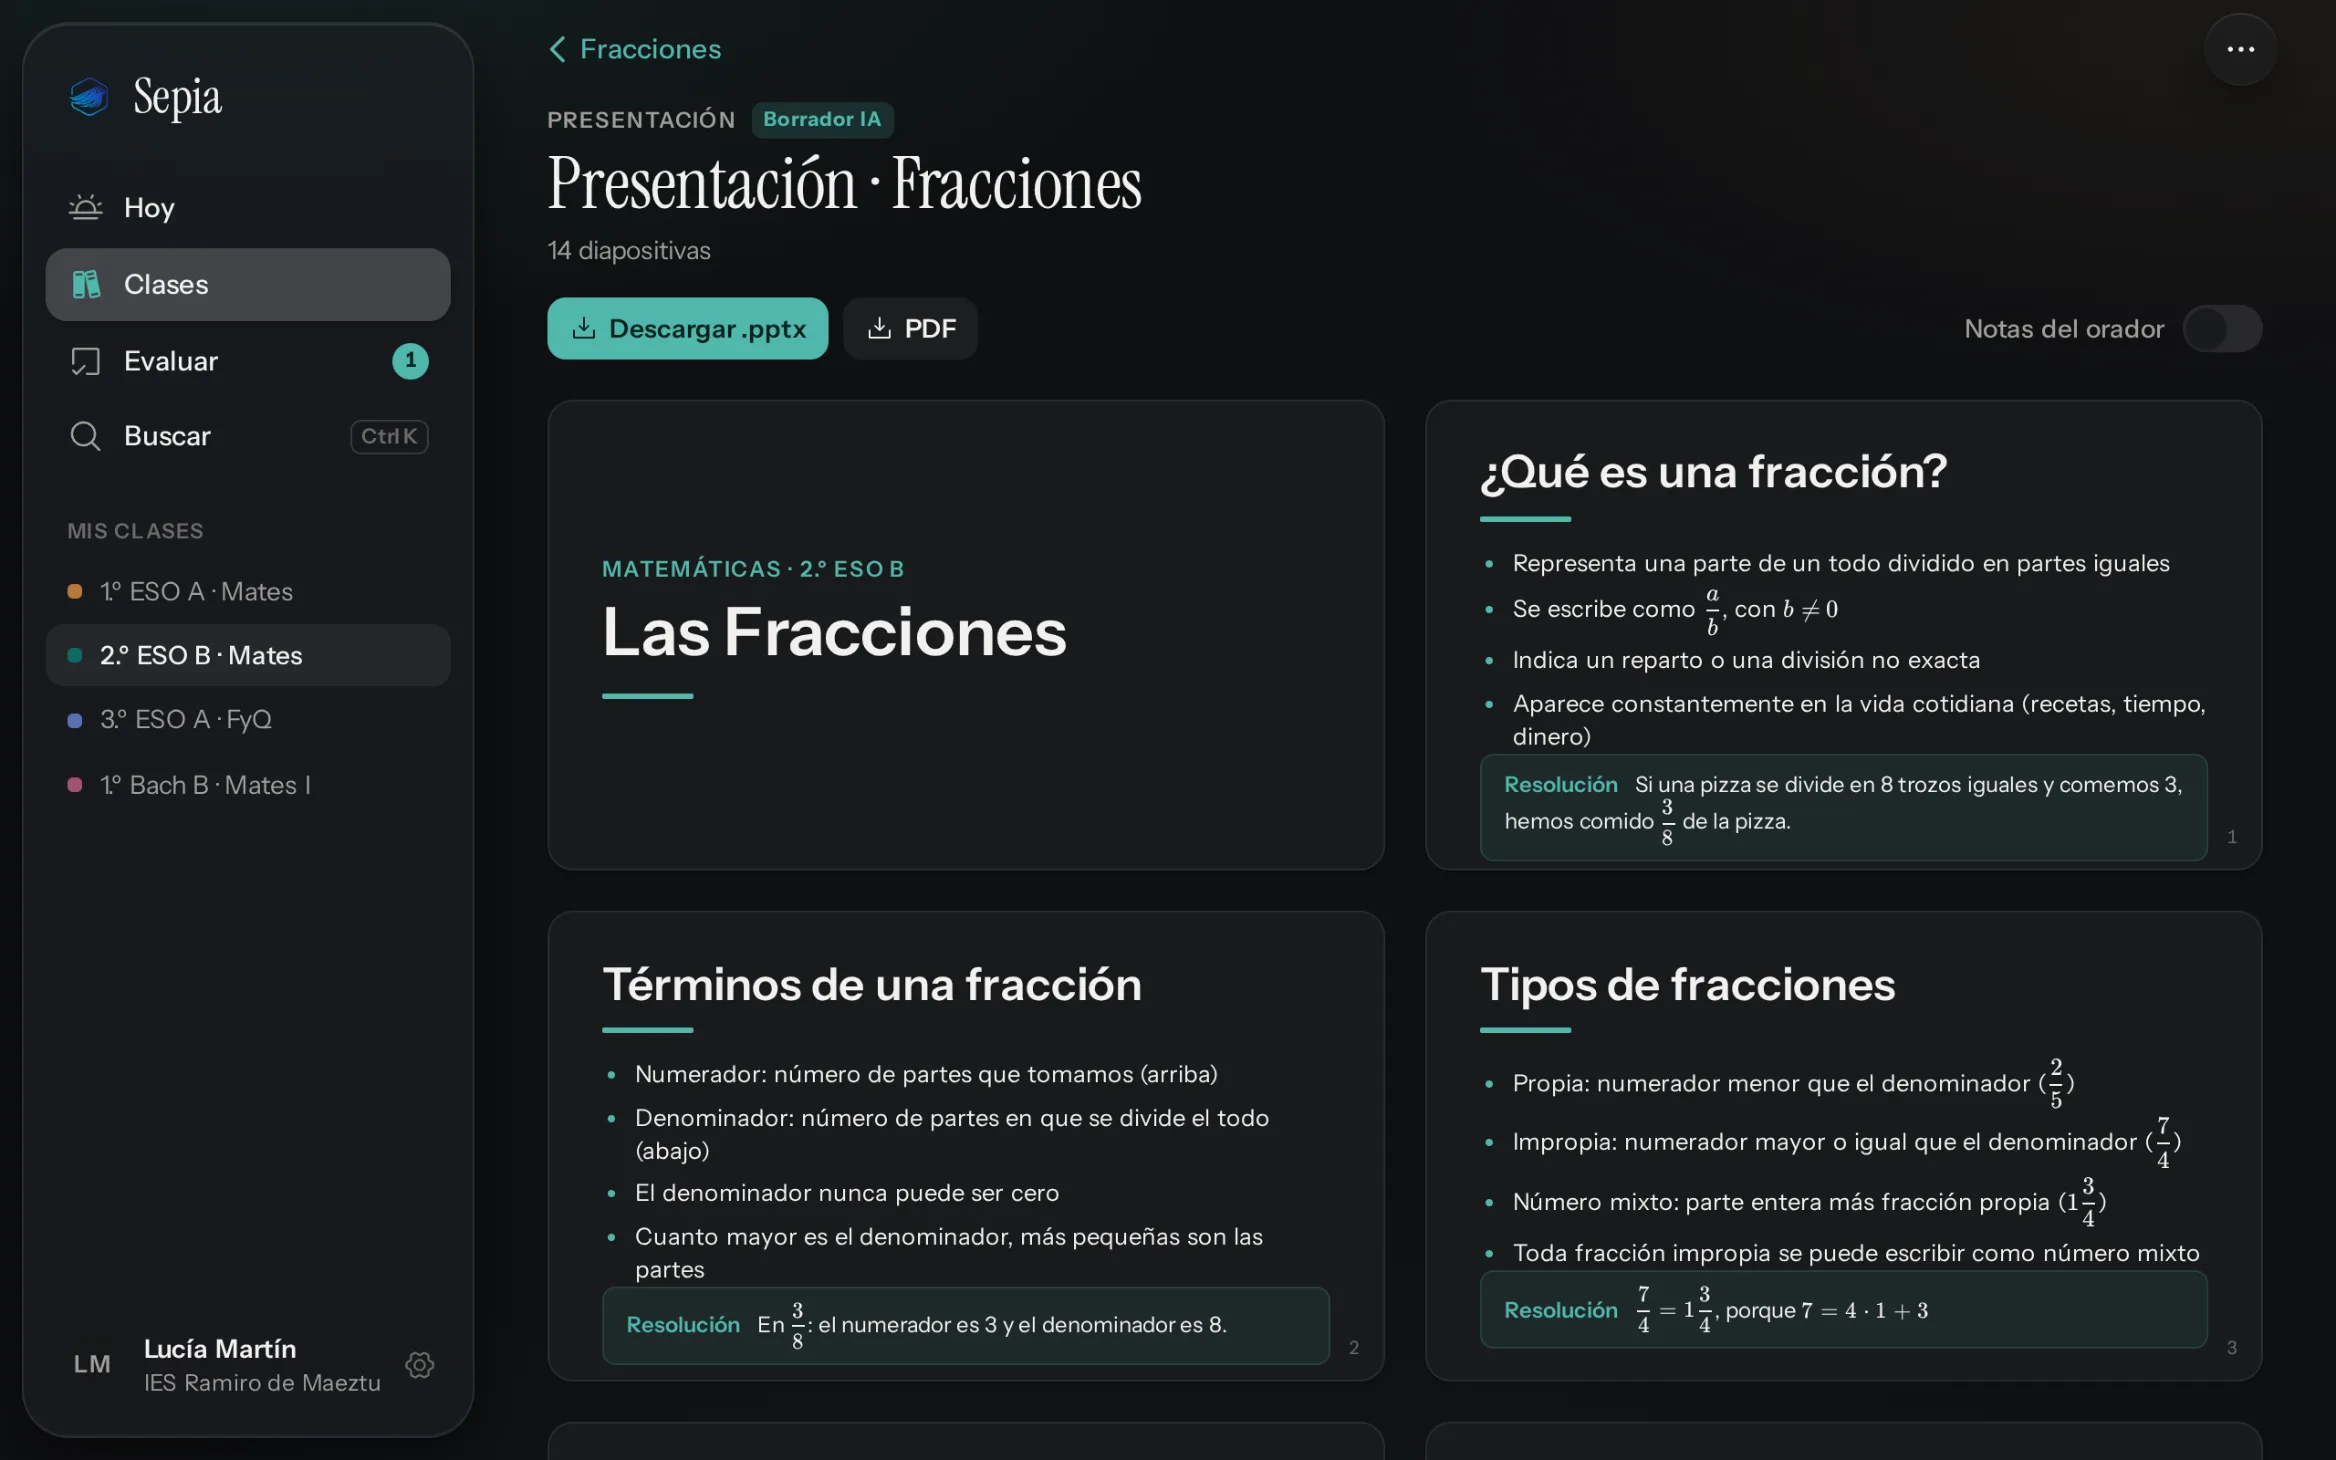
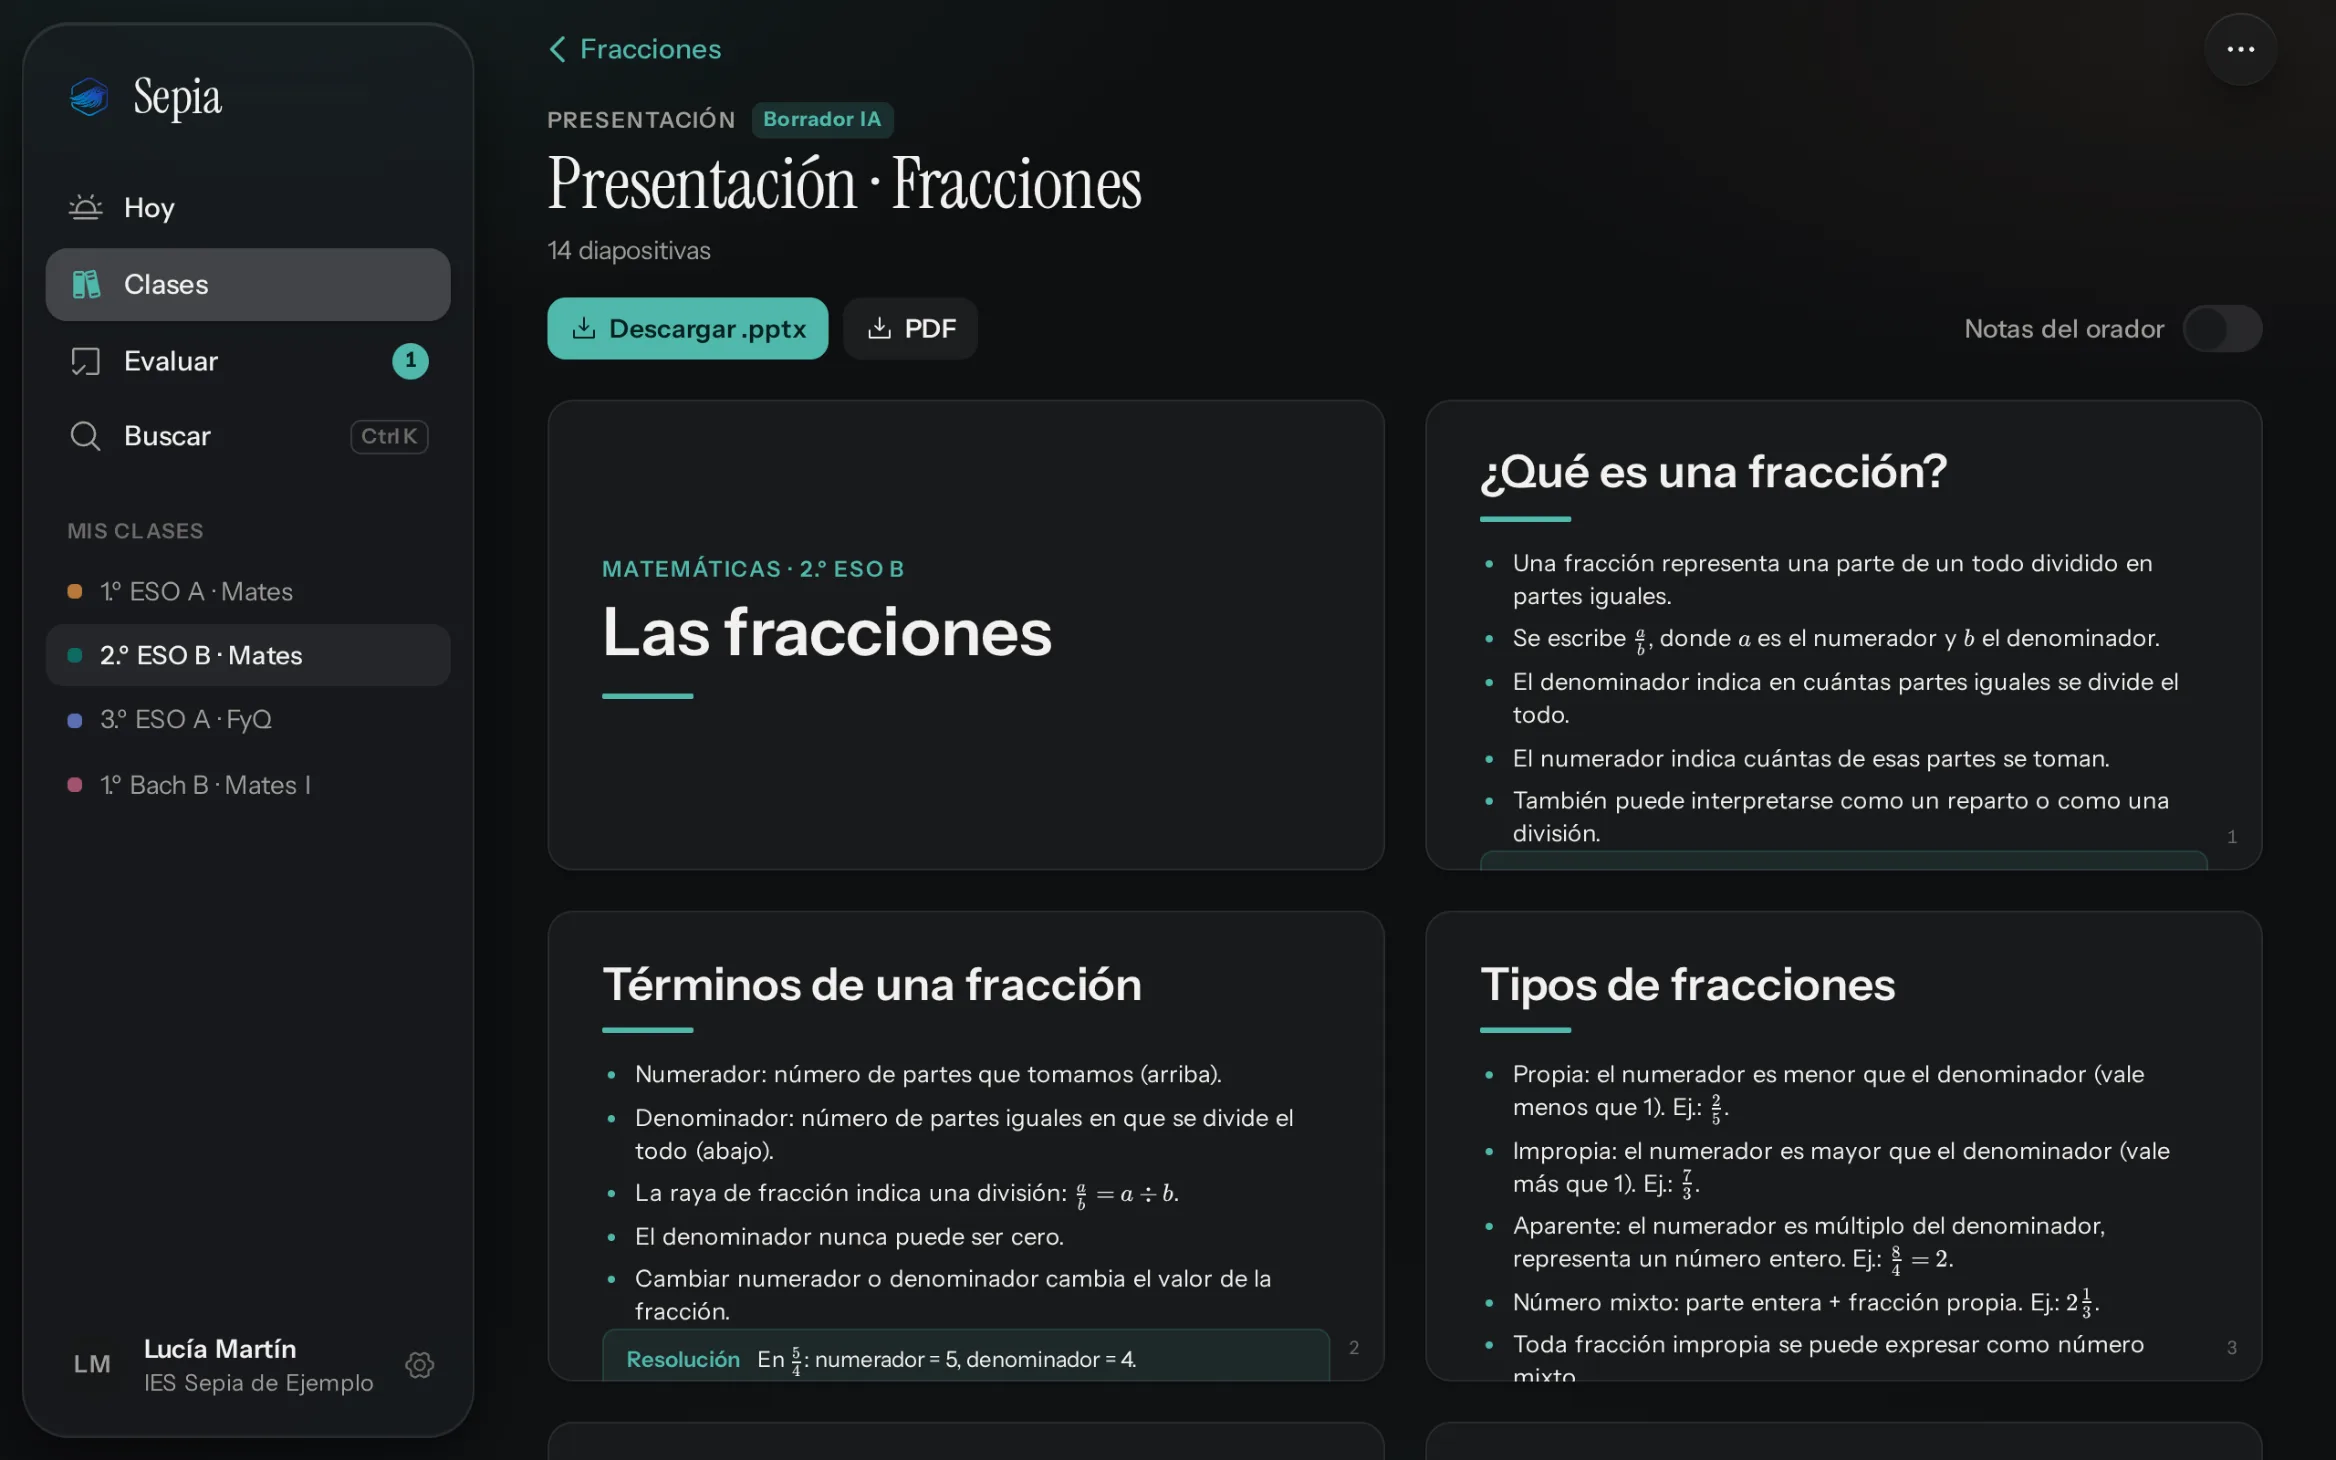
Import warns where a long programación was cut, new-student flow spec, landing shots with the fictional school
- Importar temario shows the backend's warning when the pasted text is longer than what the AI reads.
- e2e/new-student.spec.ts: a student added today leaves Evaluar and his pending exams unchanged (no AI).
- Desktop landing shots retaken from the reseeded demo («IES Sepia de Ejemplo»).

Claude-Session: https://claude.ai/code/session_01NLqyRHvEtVozJDToGmu5eg

diff --git a/landing/index.html b/landing/index.html
@@ -88,8 +88,8 @@
         <picture>
           <source media="(max-width: 1023px) and (prefers-color-scheme: dark)" srcset="/landing/img/evaluacion-phone-dark.webp?v=a7352eba" width="780" height="1688">
           <source media="(max-width: 1023px)" srcset="/landing/img/evaluacion-phone.webp?v=b038277e" width="780" height="1688">
-          <source media="(prefers-color-scheme: dark)" srcset="/landing/img/cuaderno-desktop-dark.webp?v=c1fa394b" width="2336" height="1460">
-          <img src="/landing/img/cuaderno-desktop.webp?v=d5d23657" width="2336" height="1460" loading="lazy" decoding="async"
+          <source media="(prefers-color-scheme: dark)" srcset="/landing/img/cuaderno-desktop-dark.webp?v=e6c8f79d" width="2336" height="1460">
+          <img src="/landing/img/cuaderno-desktop.webp?v=393c0edc" width="2336" height="1460" loading="lazy" decoding="async"
             alt="En el móvil, la sesión de evaluación: la media de la clase, el aviso de las notas de la IA aún sin revisar, el botón para redactar los comentarios de boletín y la media y la nota propuesta de cada alumno. En el ordenador, el cuaderno: alumnos por apellidos, una columna por actividad y la media fija a la derecha.">
         </picture>
       </figure>
@@ -111,10 +111,10 @@
       </div>
       <figure class="shot shot--adaptive">
         <picture>
-          <source media="(max-width: 1023px) and (prefers-color-scheme: dark)" srcset="/landing/img/revisar-phone-dark.webp?v=2887d1bb" width="780" height="1688">
-          <source media="(max-width: 1023px)" srcset="/landing/img/revisar-phone.webp?v=48355326" width="780" height="1688">
-          <source media="(prefers-color-scheme: dark)" srcset="/landing/img/revisar-desktop-dark.webp?v=2f801a02" width="2336" height="1460">
-          <img src="/landing/img/revisar-desktop.webp?v=8e67a369" width="2336" height="1460" loading="lazy" decoding="async"
+          <source media="(max-width: 1023px) and (prefers-color-scheme: dark)" srcset="/landing/img/revisar-phone-dark.webp?v=9d5bfbdc" width="780" height="1688">
+          <source media="(max-width: 1023px)" srcset="/landing/img/revisar-phone.webp?v=ef4b957b" width="780" height="1688">
+          <source media="(prefers-color-scheme: dark)" srcset="/landing/img/revisar-desktop-dark.webp?v=d28f7de3" width="2336" height="1460">
+          <img src="/landing/img/revisar-desktop.webp?v=c3bb4c50" width="2336" height="1460" loading="lazy" decoding="async"
             alt="Revisión de un examen: cada pregunta con los puntos que propone la IA para aceptarlos o cambiarlos y, en el ordenador, al lado, una hoja de ejemplo generada para la demo.">
         </picture>
         <figcaption>Hoja de ejemplo generada para la demo.</figcaption>
@@ -134,10 +134,10 @@
       </div>
       <figure class="shot shot--adaptive">
         <picture>
-          <source media="(max-width: 1023px) and (prefers-color-scheme: dark)" srcset="/landing/img/material-phone-dark.webp?v=8c97deb3" width="780" height="1688">
-          <source media="(max-width: 1023px)" srcset="/landing/img/material-phone.webp?v=715c8131" width="780" height="1688">
-          <source media="(prefers-color-scheme: dark)" srcset="/landing/img/material-desktop-dark.webp?v=8864bf78" width="2336" height="1460">
-          <img src="/landing/img/material-desktop.webp?v=8e30a20f" width="2336" height="1460" loading="lazy" decoding="async"
+          <source media="(max-width: 1023px) and (prefers-color-scheme: dark)" srcset="/landing/img/material-phone-dark.webp?v=1437ee31" width="780" height="1688">
+          <source media="(max-width: 1023px)" srcset="/landing/img/material-phone.webp?v=e01daff0" width="780" height="1688">
+          <source media="(prefers-color-scheme: dark)" srcset="/landing/img/material-desktop-dark.webp?v=848e0f21" width="2336" height="1460">
+          <img src="/landing/img/material-desktop.webp?v=adbc334f" width="2336" height="1460" loading="lazy" decoding="async"
             alt="Presentación de una unidad creada con IA y marcada como borrador: diapositivas con definiciones y ejemplos resueltos, y los botones para descargarla en .pptx o en PDF.">
         </picture>
       </figure>

diff --git a/src/features/units/ImportUnitsSheet.tsx b/src/features/units/ImportUnitsSheet.tsx
@@ -2,7 +2,7 @@ import { CaretDown, X } from '@phosphor-icons/react';
 import { useState } from 'react';
 import { useBulkUnits, useImportUnits } from '../../api/units';
 import { plural } from '../../lib/format';
-import { Button, IconButton, Sheet, TextArea, useFeedback } from '../../ui';
+import { Button, Callout, IconButton, Sheet, TextArea, useFeedback } from '../../ui';
 import './units.css';
 
 interface Proposal { key: number; title: string; term: number | null }
@@ -24,11 +24,13 @@ function ImportUnits({ onClose, courseId }: { onClose: () => void; courseId: str
   const bulk = useBulkUnits(courseId);
   const [text, setText] = useState('');
   const [items, setItems] = useState<Proposal[] | null>(null);
+  const [warning, setWarning] = useState<string | null>(null);
 
   const propose = async () => {
     try {
-      const { proposals } = await parse.mutateAsync(text);
+      const { proposals, warning } = await parse.mutateAsync(text);
       setItems(proposals.map((p, i) => ({ key: i, ...p })));
+      setWarning(warning);
     } catch (e) {
       toast((e as Error).message, { tone: 'error' });
     }
@@ -70,27 +72,30 @@ function ImportUnits({ onClose, courseId }: { onClose: () => void; courseId: str
           {valid.length ? `Crear ${plural(valid.length, 'unidad', 'unidades')}` : 'No queda ninguna unidad'}
         </Button>
       </>}>
-      <div className="list proposals">
-        {items.map((p, i) => (
-          <div key={p.key} className="proposal">
-            <span className="proposal__n num">{i + 1}</span>
-            <input className="input proposal__title" value={p.title} aria-label={`Título de la unidad ${i + 1}`}
-              onChange={(e) => update(p.key, { title: e.target.value })} />
-            <div className="select-wrap proposal__term">
-              <select className="select" aria-label="Evaluación" value={p.term ?? ''}
-                onChange={(e) => update(p.key, { term: e.target.value ? Number(e.target.value) : null })}>
-                <option value="1">1.ª</option>
-                <option value="2">2.ª</option>
-                <option value="3">3.ª</option>
-                <option value="">Sin</option>
-              </select>
-              <CaretDown size={14} />
+      <div className="form">
+        {warning && <Callout tone="warn">{warning}</Callout>}
+        <div className="list proposals">
+          {items.map((p, i) => (
+            <div key={p.key} className="proposal">
+              <span className="proposal__n num">{i + 1}</span>
+              <input className="input proposal__title" value={p.title} aria-label={`Título de la unidad ${i + 1}`}
+                onChange={(e) => update(p.key, { title: e.target.value })} />
+              <div className="select-wrap proposal__term">
+                <select className="select" aria-label="Evaluación" value={p.term ?? ''}
+                  onChange={(e) => update(p.key, { term: e.target.value ? Number(e.target.value) : null })}>
+                  <option value="1">1.ª</option>
+                  <option value="2">2.ª</option>
+                  <option value="3">3.ª</option>
+                  <option value="">Sin</option>
+                </select>
+                <CaretDown size={14} />
+              </div>
+              <IconButton label="Quitar" size="sm" onClick={() => setItems((xs) => xs && xs.filter((x) => x.key !== p.key))}>
+                <X size={16} />
+              </IconButton>
             </div>
-            <IconButton label="Quitar" size="sm" onClick={() => setItems((xs) => xs && xs.filter((x) => x.key !== p.key))}>
-              <X size={16} />
-            </IconButton>
-          </div>
-        ))}
+          ))}
+        </div>
       </div>
     </Sheet>
   );

diff --git a/e2e/new-student.spec.ts b/e2e/new-student.spec.ts
@@ -1,0 +1,48 @@
+import { expect, test, type APIRequestContext } from '@playwright/test';
+import { shot, trackErrors } from './helpers';
+
+// A student who joins 2.º ESO B today: nothing before today is missing for him (Evaluar stays the same). No AI.
+const API = process.env.API || 'http://127.0.0.1:8000';
+
+async function login(request: APIRequestContext) {
+  const r = await request.post(`${API}/api/auth/login`, { data: { email: 'demo@sepia.es', password: 'sepia1234' } });
+  const { access_token } = await r.json();
+  const headers = { Authorization: `Bearer ${access_token}` };
+  return {
+    get: async (path: string) => (await request.get(`${API}/api${path}`, { headers })).json(),
+    del: (path: string) => request.delete(`${API}/api${path}`, { headers }),
+  };
+}
+
+const toGrade = (inbox: { to_grade: { activity: { id: string }; missing: number }[] }) =>
+  inbox.to_grade.map((x) => [x.activity.id, x.missing]);
+
+test('a student added today leaves Evaluar and his pending exams alone', async ({ page, request }, info) => {
+  const errors = trackErrors(page);
+  const api = await login(request);
+  const courses: { id: string; subject: string; group: { id: string; name: string } }[] = await api.get('/courses');
+  const course = courses.find((c) => c.subject === 'Matemáticas' && c.group.name.includes('2º ESO B'))!;
+  const before = await api.get('/inbox');
+
+  await page.goto(`/clases/${course.id}/alumnos?anadir=1`);
+  await page.getByLabel('Un alumno por línea').fill('Vidal Ruiz, Nuria');
+  await page.getByRole('button', { name: 'Añadir 1 alumno' }).click();
+  await expect(page.getByText('1 alumno añadido')).toBeVisible();
+  const roster: { id: string; first_name: string; last_name: string }[] = await api.get(`/groups/${course.group.id}/students`);
+  const nuria = roster.find((s) => s.first_name === 'Nuria' && s.last_name === 'Vidal Ruiz')!;
+  try {
+    expect(toGrade(await api.get('/inbox'))).toEqual(toGrade(before));
+    await page.goto('/evaluar');
+    await expect(page.getByRole('heading', { name: 'Evaluar' }).first()).toBeVisible();
+    await shot(page, info, 'new-student-evaluar');
+
+    const file = await api.get(`/students/${nuria.id}`);
+    expect(file.courses.flatMap((c: { pending_exams: unknown[] }) => c.pending_exams)).toEqual([]);
+    await page.goto(`/alumnos/${nuria.id}`);
+    await expect(page.getByText('Nuria').first()).toBeVisible();
+    await shot(page, info, 'new-student-file');
+  } finally {
+    await api.del(`/groups/${course.group.id}/students/${nuria.id}`);
+  }
+  expect(errors).toEqual([]);
+});

diff --git a/src/api/units.ts b/src/api/units.ts
@@ -123,7 +123,8 @@ export function useOrderUnits(courseId: string) {
 
 export function useImportUnits(courseId: string) {
   return useMutation({
-    mutationFn: (text: string) => api.post<{ proposals: { title: string; term: number | null }[] }>(`/courses/${courseId}/units/import`, { text }),
+    mutationFn: (text: string) =>
+      api.post<{ proposals: { title: string; term: number | null }[]; warning: string | null }>(`/courses/${courseId}/units/import`, { text }),
   });
 }
 

diff --git a/docs/PRODUCT.md b/docs/PRODUCT.md
@@ -82,8 +82,8 @@ Ajustes        /ajustes                 perfil, curso escolar, festivos, cerrar 
 ### 4.1 Septiembre — poner en marcha (≤ 5 minutos)
 1. Registro → se crea el curso escolar con trimestres y festivos nacionales por defecto (editables en Ajustes).
 2. "Nueva clase": materia + grupo (crear o elegir) + horario (días y horas, tramos de 55 min por defecto) + aula.
-3. "Añadir alumnos": **pegar la lista** (un alumno por línea, acepta "Apellidos, Nombre" y "Nombre Apellidos") o importar CSV/Excel (detecta `;`, Latin-1, BOM). Si el grupo ya tiene alumnos (otra materia), se reutilizan.
-4. Programación: añadir unidades a mano, o **"Importar temario"**: pegar el índice del libro / programación → la IA propone unidades con trimestre → confirmar.
+3. "Añadir alumnos": **pegar la lista** (un alumno por línea, acepta "Apellidos, Nombre" y "Nombre Apellidos") o importar CSV/Excel (detecta `;`, Latin-1, BOM). Si el grupo ya tiene alumnos (otra materia), se reutilizan. La primera lista es la clase desde el principio; un alumno añadido después llega hoy: nada anterior le falta (no sale «sin nota» en Evaluar ni en sus exámenes pendientes, no está en las listas ni en los deberes de días anteriores).
+4. Programación: añadir unidades a mano, o **"Importar temario"**: pegar el índice del libro / programación (entera, con su preámbulo) → la IA propone unidades con trimestre → confirmar. Si el texto es demasiado largo, la revisión dice hasta dónde se ha leído.
 5. Ponderaciones de la clase: por defecto *Exámenes 60 %, Trabajos y fichas 30 %, Observación 10 %*. Editable en una hoja.
 
 ### 4.2 Cada día — Hoy
